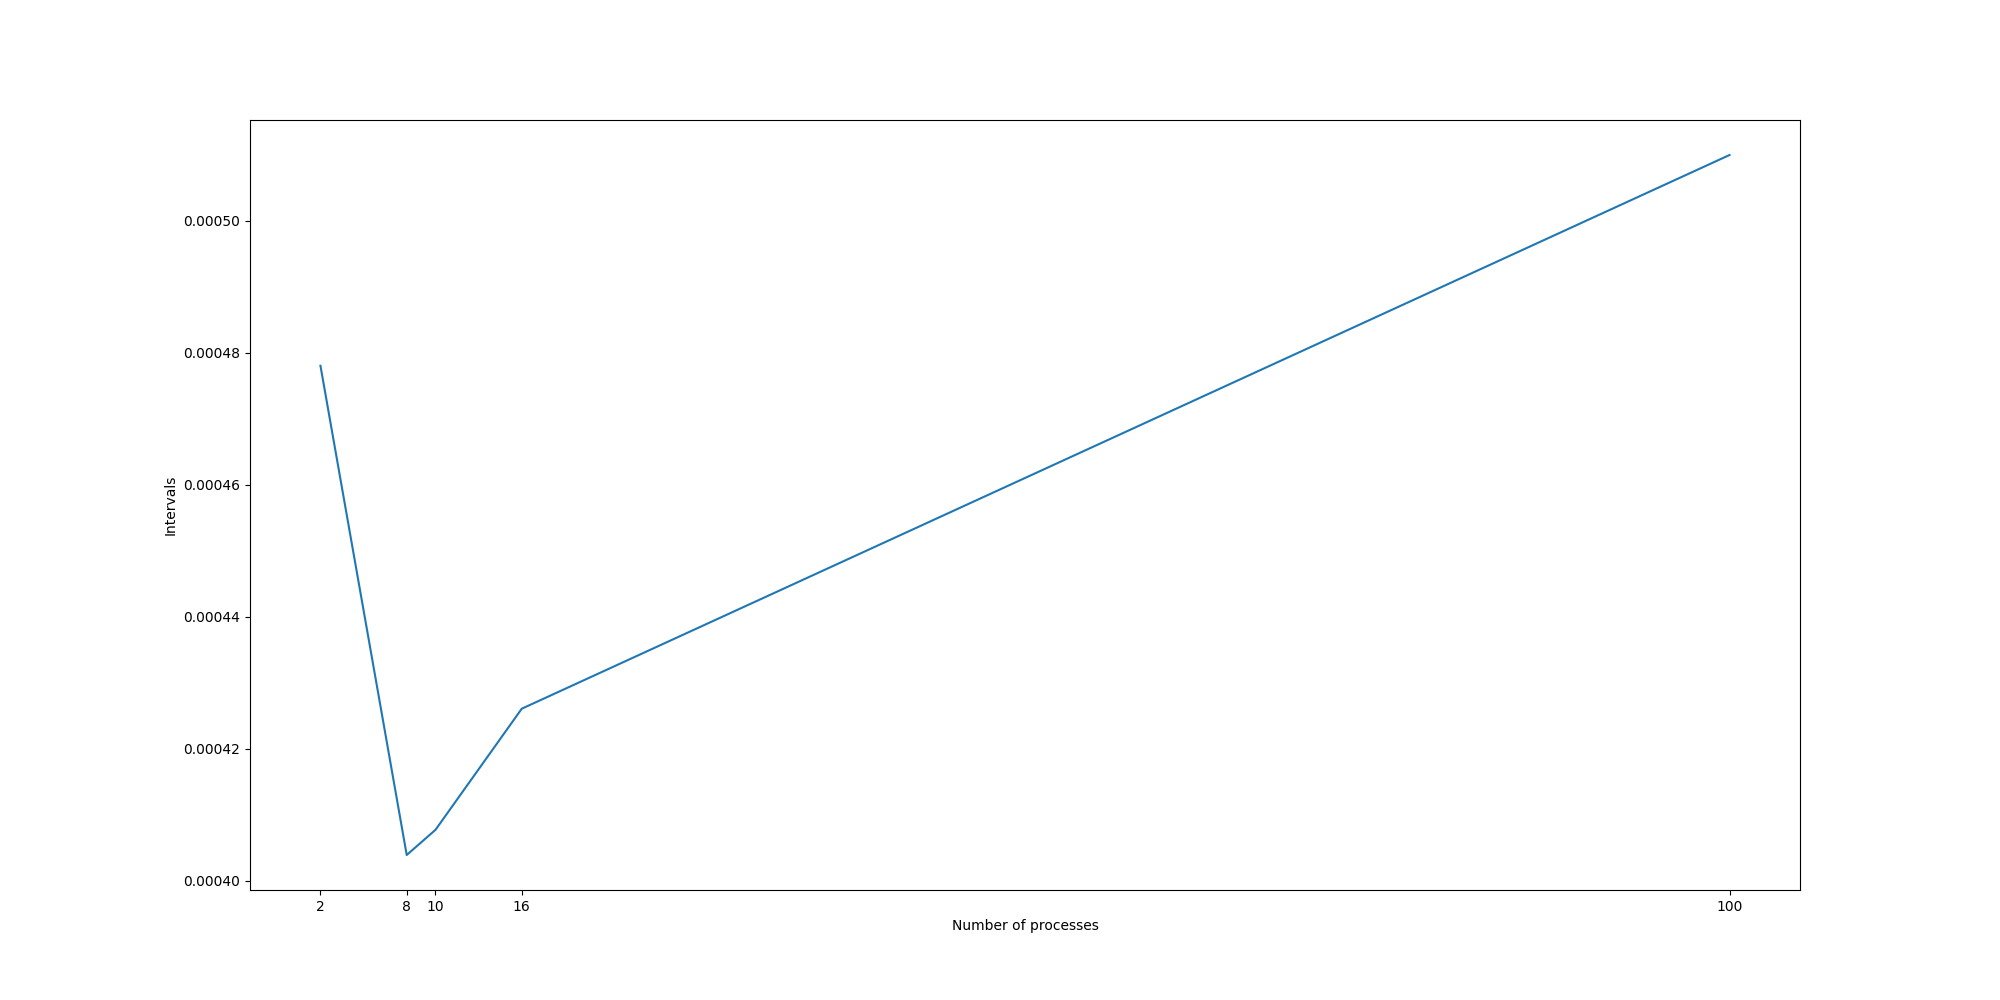
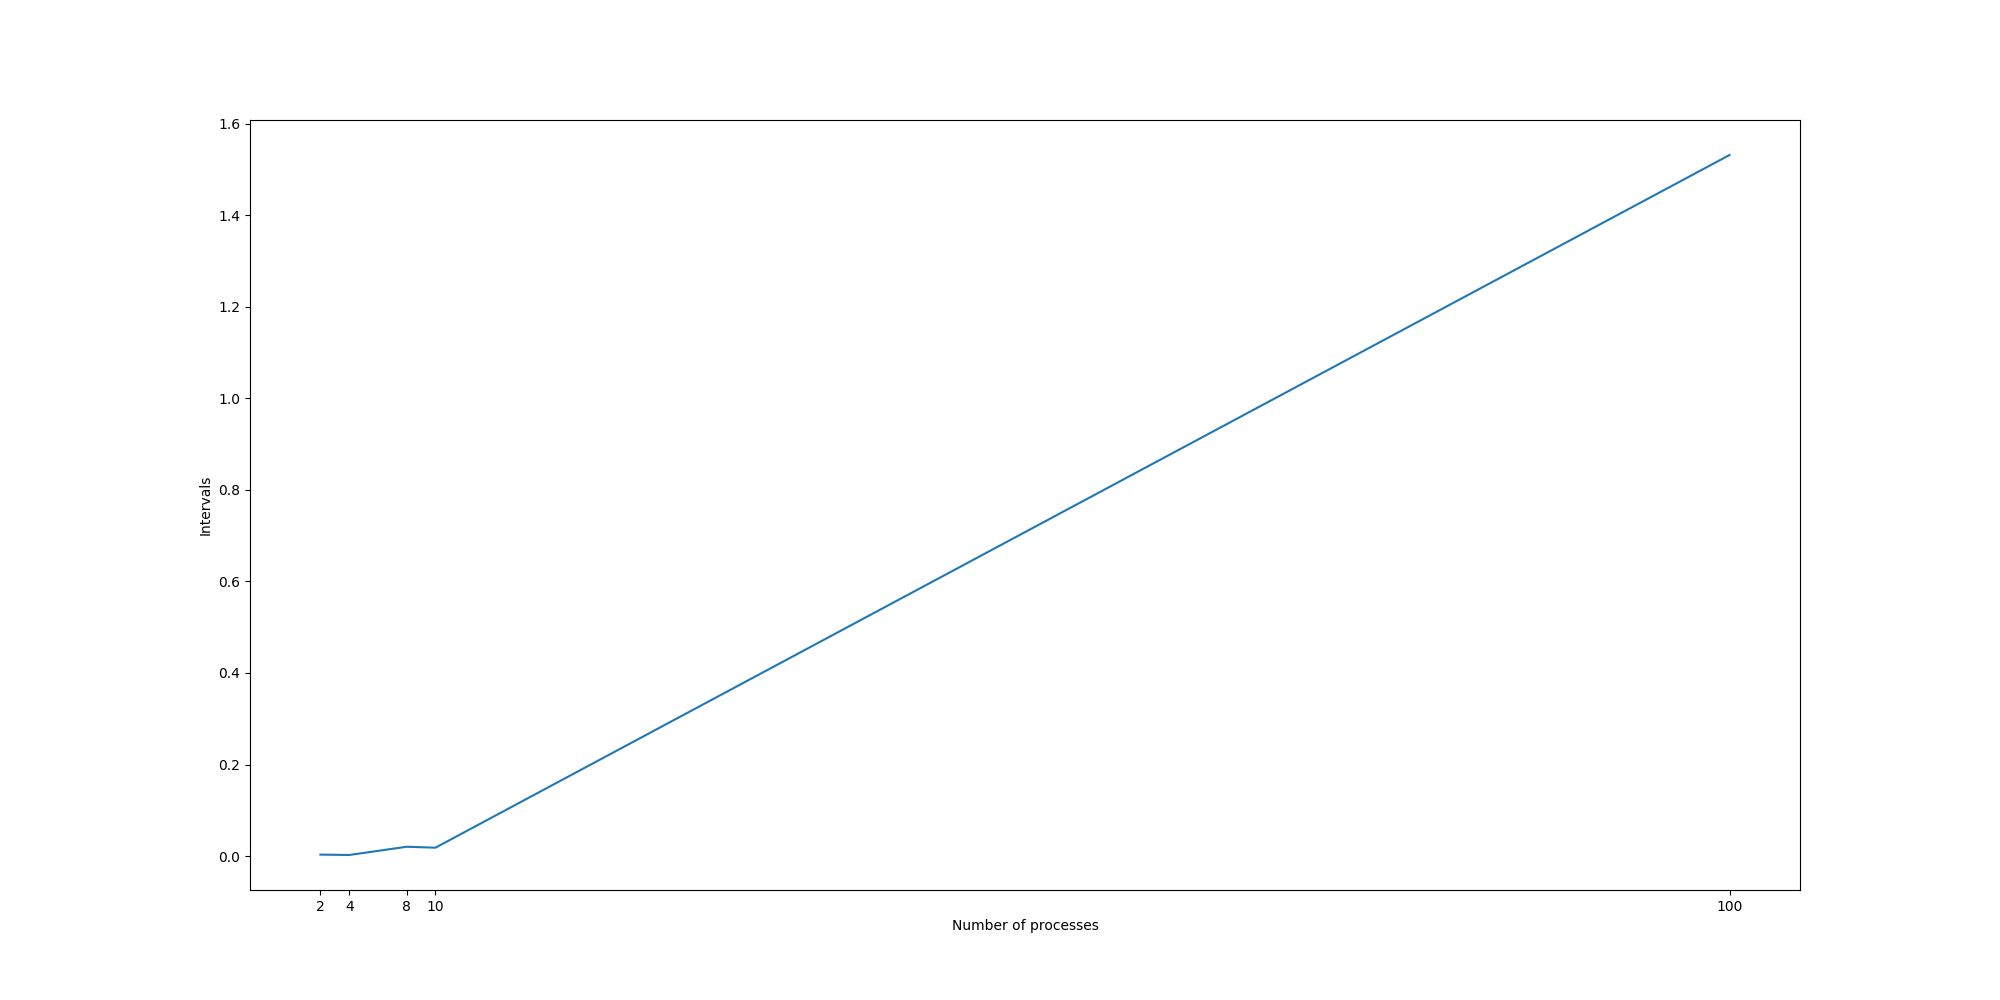
Bugfixes

diff --git a/LR5/task.py b/LR5/task.py
@@ -37,19 +37,16 @@ else:
     data = None
 
 data = comm.bcast(data, root=0)
-summary = 0
 start = time.time()
+summary = 0
 for i in data['ranges'][rank]:
     if i%2==0:
         summary = summary + sum(data['matrix'][i])
-finish = time.time()
-interval = finish - start
-
-interval = comm.reduce(interval, MPI.MAX, root=0)
 summary = comm.reduce(summary, MPI.SUM, root=0)
 
 if rank == 0:
+    finish = time.time()
+    interval = finish - start
     print (f"{summary}\n{interval}")
 else:
     assert summary is None
-    assert interval is None

diff --git a/LR5/result.py b/LR5/result.py
@@ -12,7 +12,7 @@ num_of_processes = [2, 10, 100, int(num_cpus/2), num_cpus]
 num_of_processes.sort()
 intervals=[]
 for entry in num_of_processes:
-    TASK_OUTPUT = subprocess.run(["mpiexec", "-n", "8", "python3", "task.py"], stdout=subprocess.PIPE, universal_newlines=True).stdout
+    TASK_OUTPUT = subprocess.run(["mpiexec", "-n", str(entry), "python3", "task.py"], stdout=subprocess.PIPE, universal_newlines=True).stdout
     TASK_ENTRIES = TASK_OUTPUT.split('\n')
     intervals.append(float(TASK_ENTRIES[1]))
 print(intervals)
